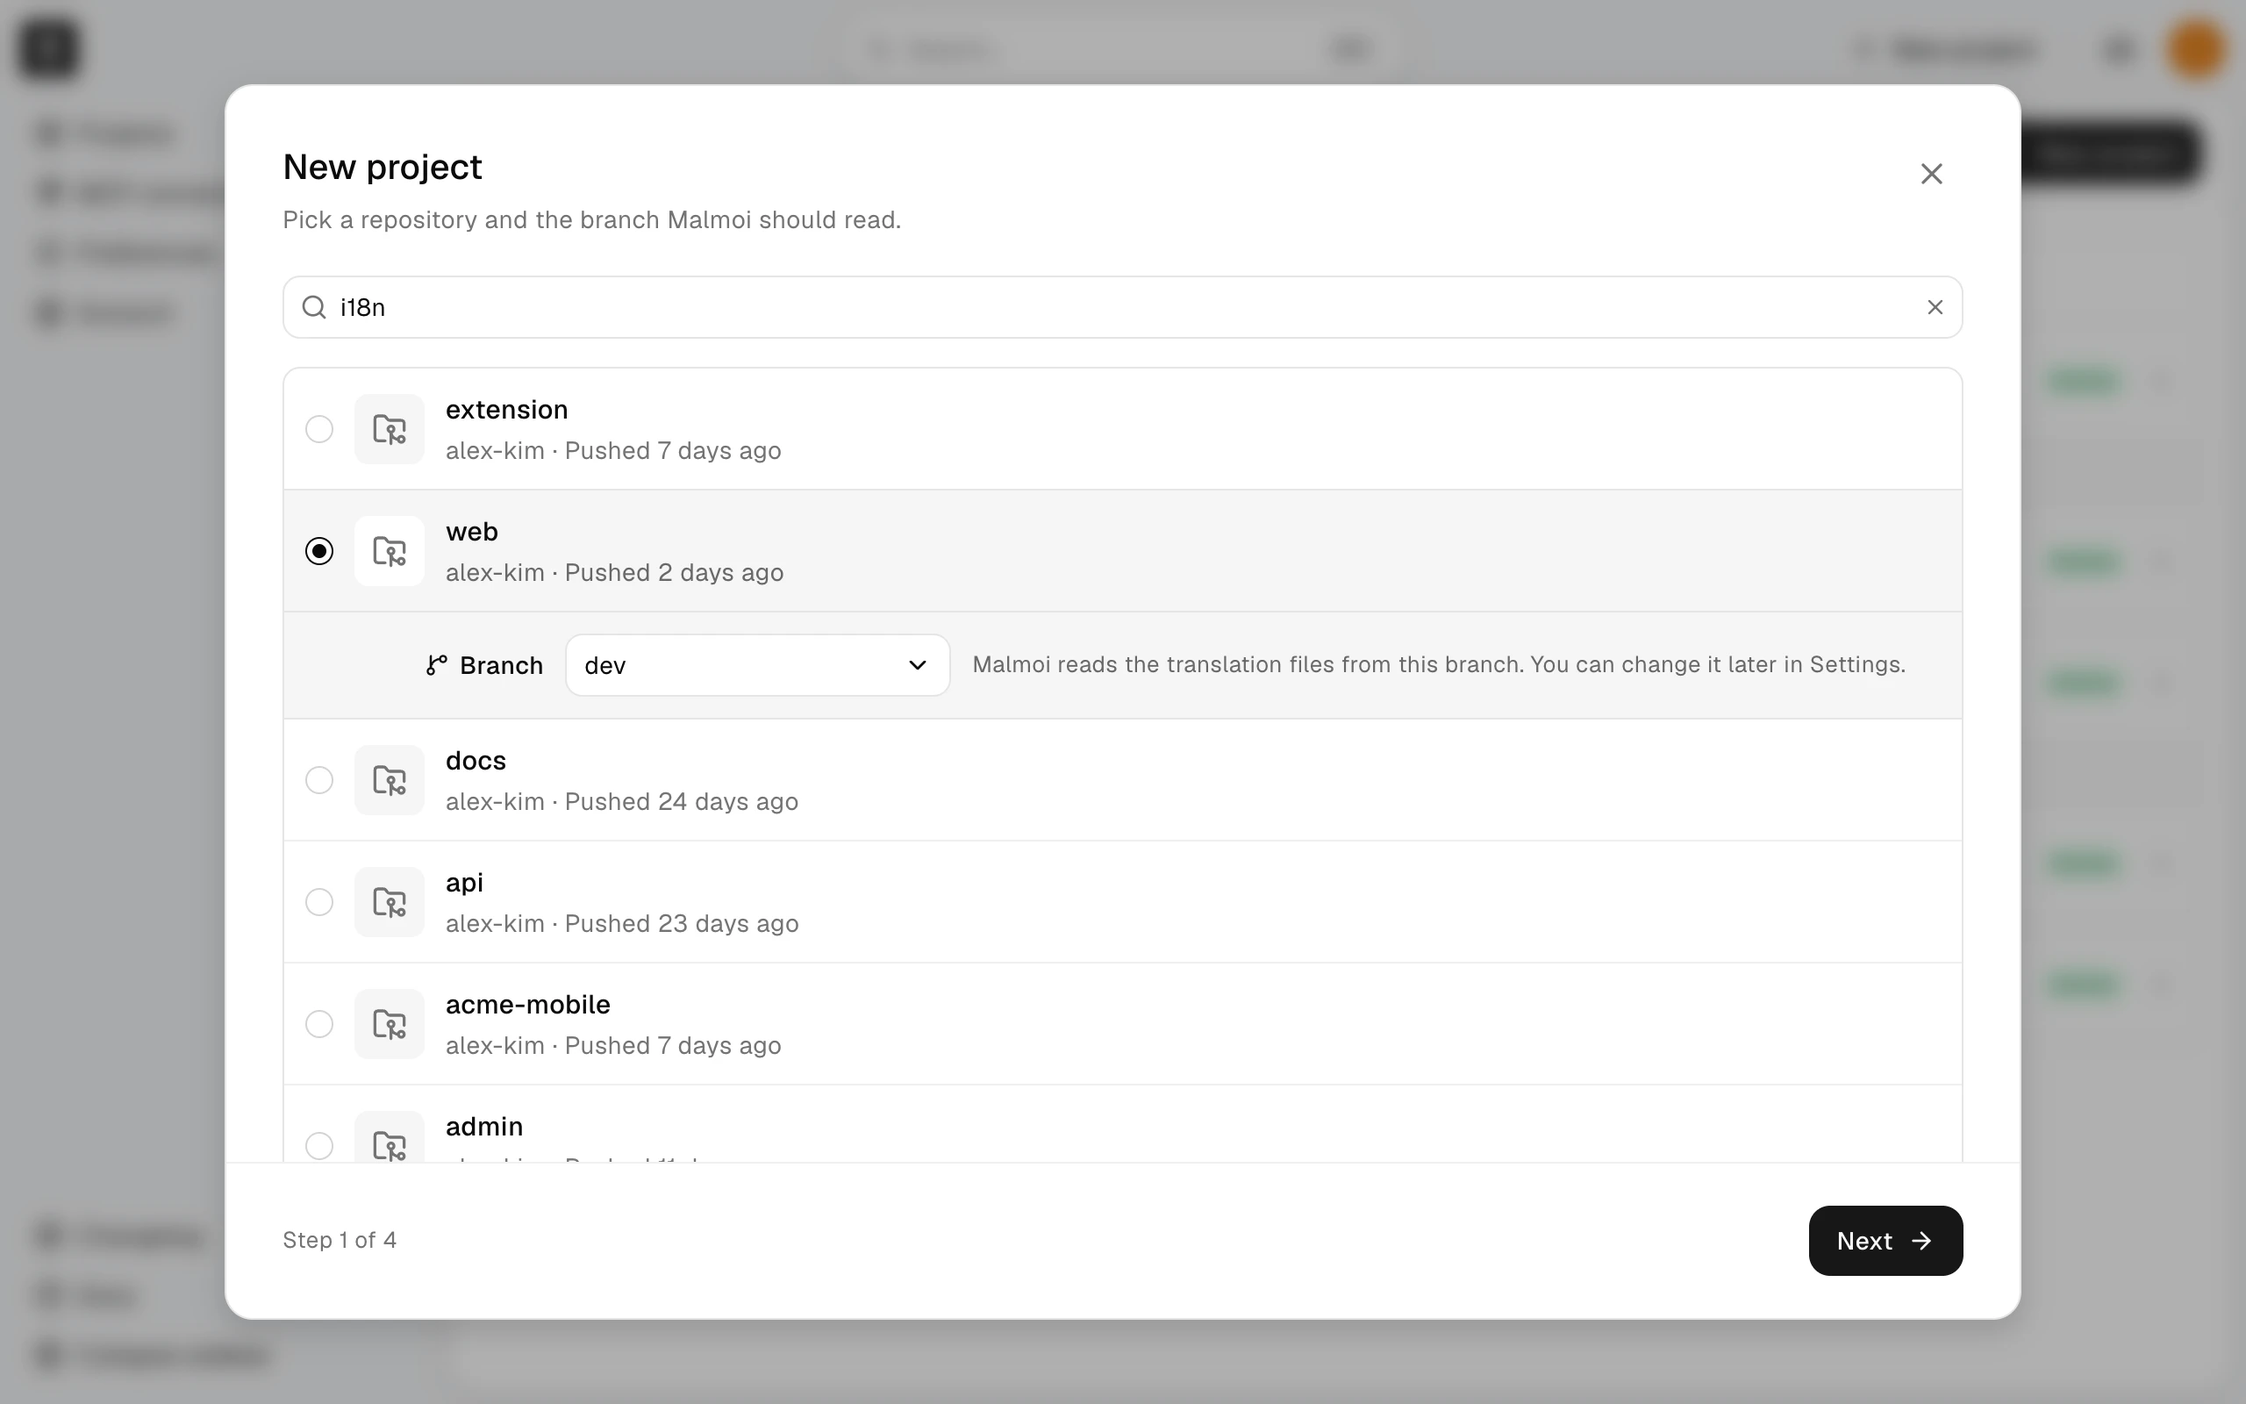
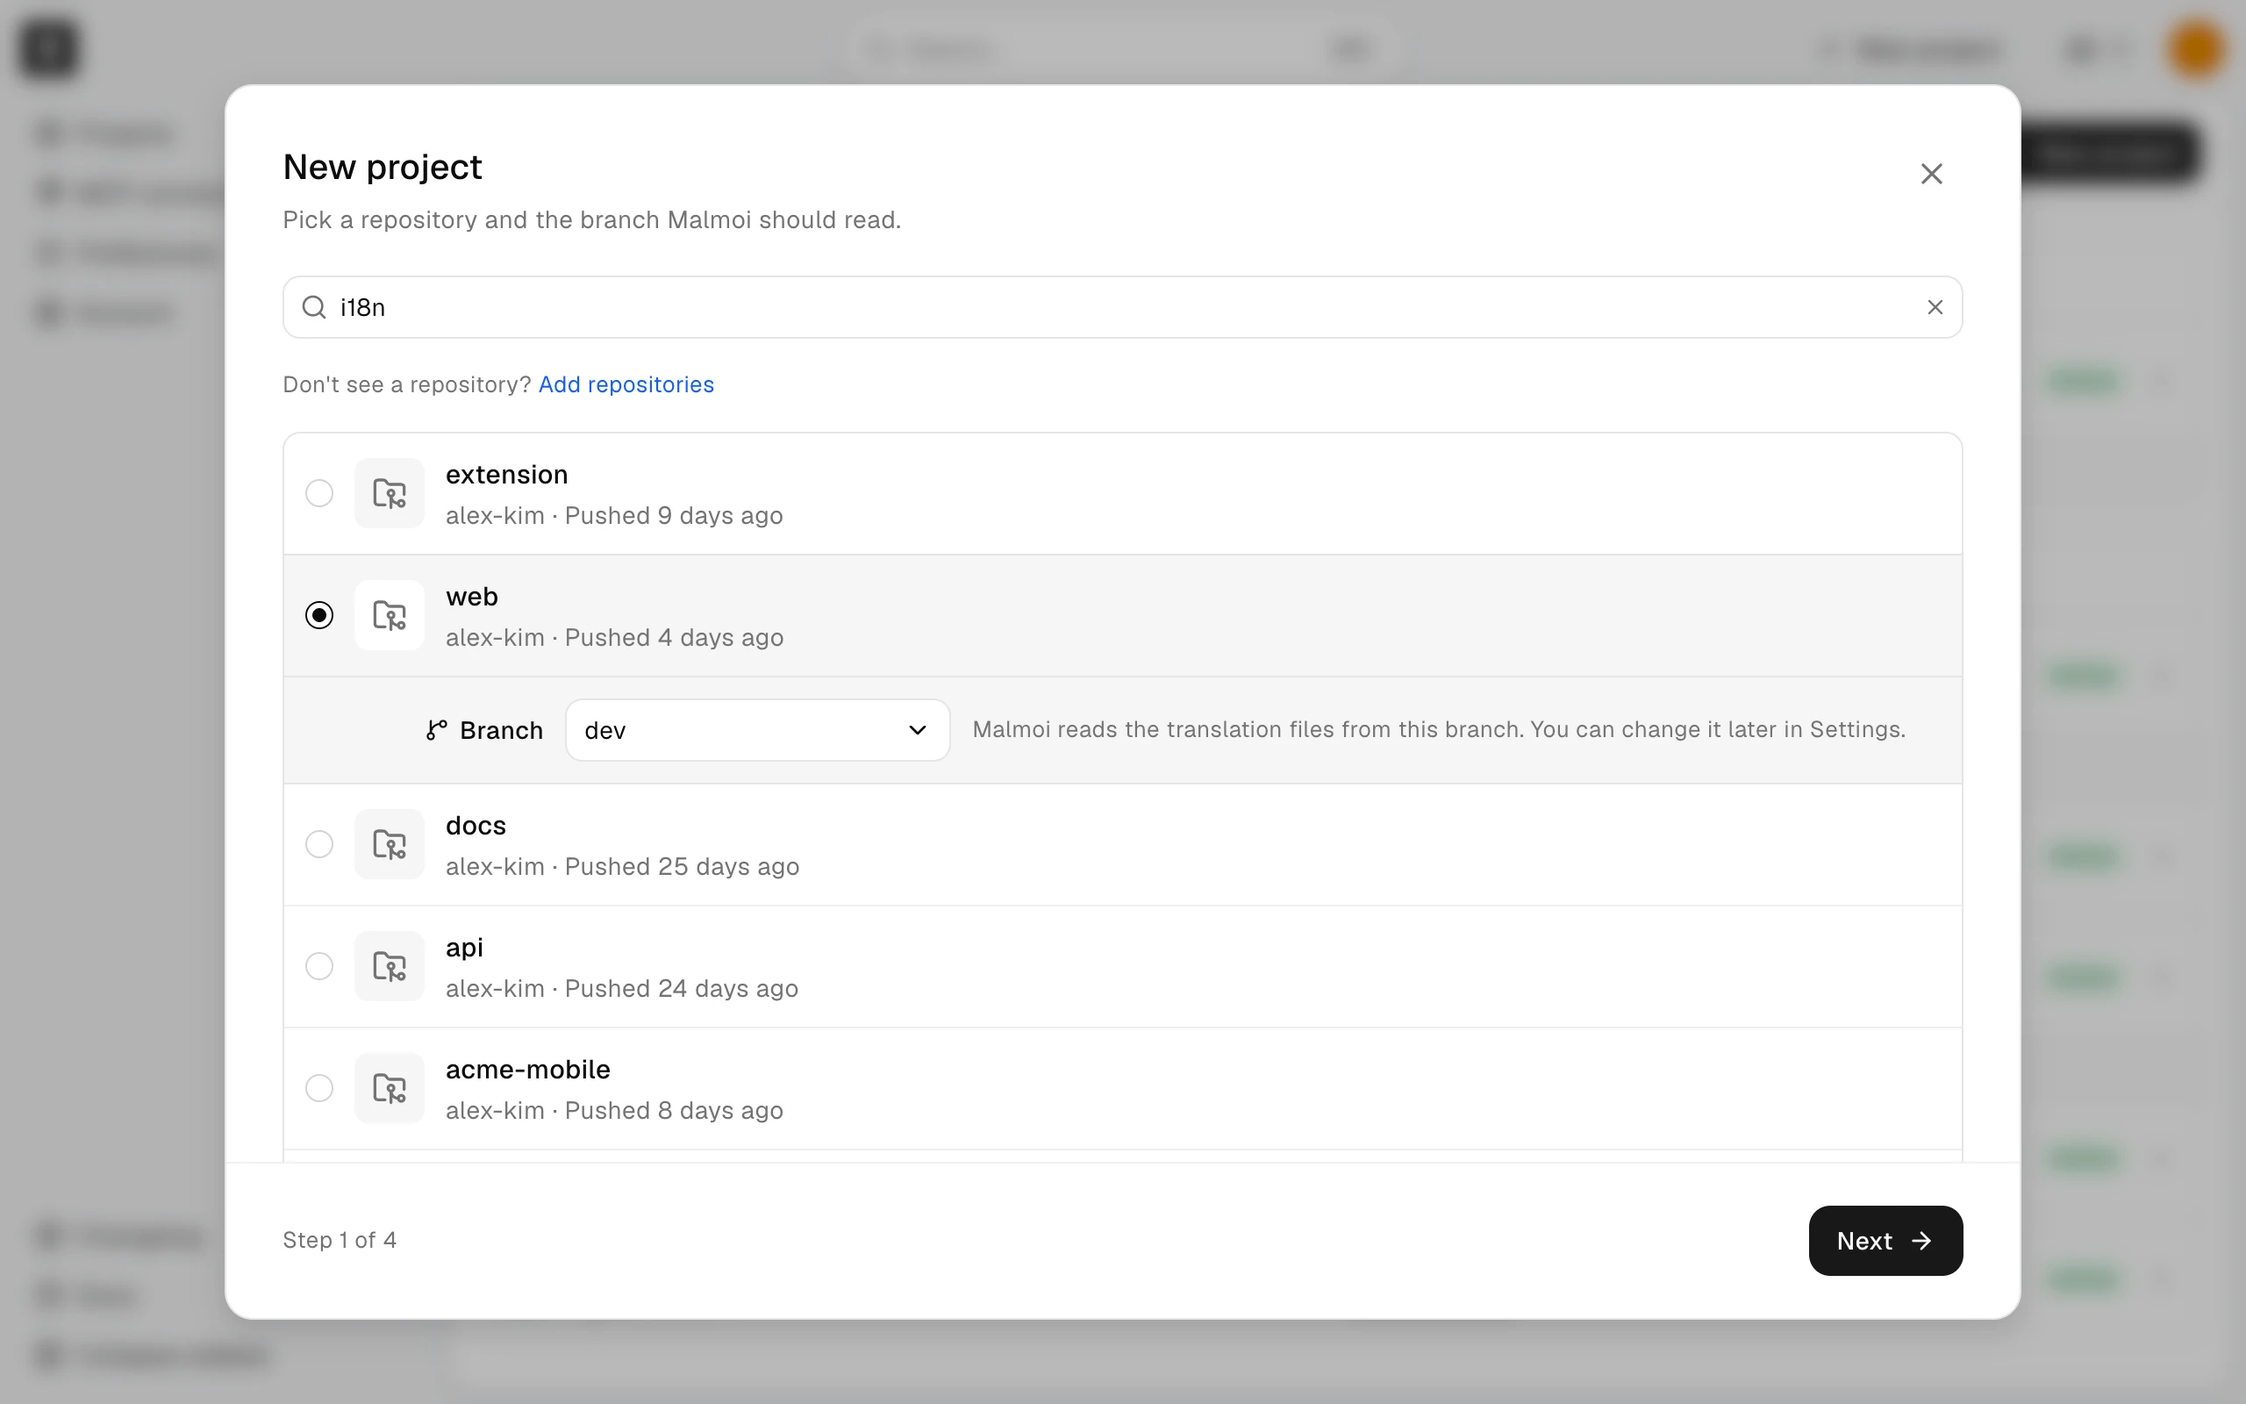
docs(guide): refresh stale screenshots and capture hashes

diff --git a/guide/SHOOTING.md b/guide/SHOOTING.md
@@ -121,18 +121,18 @@
 | /guide/workflow-file.webp | components/settings/ci-card.tsx, components/onboarding/workflow-block.tsx, lib/onboarding/workflow.ts | 4b0c6517ce3855adfe0d2efb25685ba401a487b9, 13a0bbaf8bae47bc0995b3ba5710b84ecdb4a3cf, 45d351ca4d9fc6cff70c84d0e784e6e992edba69 | 2560x1600 |
 | /guide/actions-policy.webp | lib/onboarding/workflow.ts, .github/actions/malmoi-i18n-push/action.yml | 45d351ca4d9fc6cff70c84d0e784e6e992edba69, 559ddc28bcd1c0fa8f4a1946dd15f7e8fcd0f03d | 2560x1600 |
 | /guide/translation-editor.webp | components/translations/workspace/key-list.tsx, components/translations/workspace/locale-panel.tsx, components/translations/workspace/workspace.tsx, components/translations/workspace/tree-panel.tsx | 9596e3f69feeec0778cb4c7124767a3a95862e06, d163e48e5a600188360758bc16e9f23892415645, 5e70704323a5b505bb84cbcb992c44e6baad1566, c3011321c302532e5d48ac53e1b026eff051782f | 2560x1600 |
-| /guide/publish-preview.webp | components/publish-button.tsx, lib/publish/preview.ts | f5ecfbf808e496d8814d4d754eed38b6697174fc, 257ebc5a440efdd31731c6426b9851f869a41561 | 2560x1600 |
+| /guide/publish-preview.webp | components/publish-button.tsx, lib/publish/preview.ts | 74c1ba70a0914474b825f4ad82529a81ee6648a9, e45bd3464c495b090f1be361cb9fe5eb49d4f527 | 2560x1600 |
 | /guide/project-home.webp | app/(edit)/projects/[slug]/(home)/page.tsx, components/home/count-cards.tsx, components/home/meta-column.tsx, components/home/meta-tabs.tsx | a3ca13f26f31e8a50d046d89963b03ab79574988, f79053a2ec12e6fd6a1611a948c5ce805970a74f, 5ae516e4db22a7ce9a1f86d301773969b3a2933a, 326a71e9fadefec3992bad2e9acf0192fa107a35 | 2560x1600 |
 | /guide/invite-members.webp | components/members/invite-modal.tsx | 2c7ee849a67b7c22829322d5e26dc29d89980cbe | 2560x1600 |
 | /guide/members.webp | components/members/member-list.tsx, components/members/member-row.tsx, components/members/pending-invitations.tsx | 5c9abf0476d864a60636140609f313bc49309f9a, 7aa6bc0fe597bbeadf217adf4c2524b459cb823f, 6a0f199028d043edee39b3bed347f51e8c95ef91 | 2560x1600 |
-| /guide/sources.webp | components/sources/sources-screen.tsx, components/sources/source-status.tsx | b0966ca7ad7e55d4687f8b660f7abbd4e7b6a9aa, 3df5a25bcf1d94eee8d15176730ab652a9c18a9c | 2560x1600 |
+| /guide/sources.webp | components/sources/sources-screen.tsx, components/sources/source-status.tsx | 9abbc42c4c961bb855c7aacbcac7229a52c6eb25, 3df5a25bcf1d94eee8d15176730ab652a9c18a9c | 2560x1600 |
 | /guide/add-sources.webp | components/sources/add-sources-modal.tsx | 3a68b93e1836d12f8bef9de4e7aad708b0aa3f7c | 2560x1600 |
 | /guide/archive-card.webp | components/settings/archive-card.tsx | fbf5ba1bd7b87ff3c8ea910d2876d810b3deb440 | 2560x1600 |
-| /guide/accept-invitation.webp | app/invite/[token]/page.tsx, components/invite/project-card.tsx, components/signin/auth-layout.tsx | 01d3b1bcd7b4c96ad05a866d147b1c7e3b6076bf, 127ce43ee81376d2129c819207560812ddf1f1e7, ed226dfe79cfe2d0ce4aea1f8672b353220adaf9 | 2560x1600 |
+| /guide/accept-invitation.webp | app/invite/[token]/page.tsx, components/invite/project-card.tsx, components/signin/auth-layout.tsx | 01d3b1bcd7b4c96ad05a866d147b1c7e3b6076bf, 127ce43ee81376d2129c819207560812ddf1f1e7, ddc84a27986efdde192d4c3c11710a50f5c7793f | 2560x1600 |
 | /guide/state-filter.webp | components/translations/workspace/filter-menu.tsx, components/translations/workspace/key-list.tsx, dict:translations.workspace.filters.state.any, dict:translations.workspace.filters.state.incomplete, dict:translations.workspace.filters.state.unsent, dict:translations.workspace.filters.state.review, dict:translations.workspace.filters.state.new | 0d6e722c777ce3d4d3cdba98015793f38c2cbb4a, 9596e3f69feeec0778cb4c7124767a3a95862e06, b823bb9b42b3672439670b5267fe5328d7524380, 387fd1bbc18419e26c612f4acad9213e5073ade4, 0d09fa0d8c890b48da20aefe409a39eb962b5114, 33a506cf6ec5a56c261838f0a5a3d29cd7f2dacc, 56539cd31aeb7453fb2900c2952b988146fd6127 | 2560x1600 |
 | /guide/inbox-open.webp | components/shell/attention-inbox.tsx, lib/home/attention-view.ts, lib/inbox/plan.ts | 8f9a482eb7f07e9e8af9f07e9596fa3d1ec4e371, edbbb141b2877391ee384376b69298ae30d301da, ed430f039547cb6818bd45084567394b0b82a513 | 2560x1600 |
-| /guide/home-publish.webp | app/(edit)/projects/[slug]/(home)/page.tsx, components/home/count-cards.tsx, components/publish-button.tsx | a3ca13f26f31e8a50d046d89963b03ab79574988, f79053a2ec12e6fd6a1611a948c5ce805970a74f, f5ecfbf808e496d8814d4d754eed38b6697174fc | 2560x1600 |
-| /guide/publish-result.webp | components/publish-button.tsx | f5ecfbf808e496d8814d4d754eed38b6697174fc | 2560x1600 |
+| /guide/home-publish.webp | app/(edit)/projects/[slug]/(home)/page.tsx, components/home/count-cards.tsx, components/publish-button.tsx | a3ca13f26f31e8a50d046d89963b03ab79574988, f79053a2ec12e6fd6a1611a948c5ce805970a74f, 74c1ba70a0914474b825f4ad82529a81ee6648a9 | 2560x1600 |
+| /guide/publish-result.webp | components/publish-button.tsx | 74c1ba70a0914474b825f4ad82529a81ee6648a9 | 2560x1600 |
 | /guide/home-paused.webp | app/(edit)/projects/[slug]/(home)/page.tsx, components/home/count-cards.tsx, components/home/meta-column.tsx, components/home/meta-tabs.tsx, dict:home.cards.held.pending-edits | a3ca13f26f31e8a50d046d89963b03ab79574988, f79053a2ec12e6fd6a1611a948c5ce805970a74f, 5ae516e4db22a7ce9a1f86d301773969b3a2933a, 326a71e9fadefec3992bad2e9acf0192fa107a35, e7daa697ea395700d6e0a57f5dc83a59b2b30aa7 | 2560x1600 |
 | /guide/revert-confirm.webp | components/translations/workspace/workspace.tsx, components/translations/edit-loss-banner.tsx, components/translations/workspace/key-list.tsx | 5e70704323a5b505bb84cbcb992c44e6baad1566, daf9dd43f41d9d6ddf74fa7ecea18542bc416df8, 9596e3f69feeec0778cb4c7124767a3a95862e06 | 2560x1600 |
 | /guide/sync-discard.webp | components/home/sync-button.tsx | 6e26d3c6e1c1a79e576b92c991dd513326141c5e | 2560x1600 |
@@ -143,7 +143,7 @@
 | /guide/mcp-create-token.webp | components/mcp/token-modal.tsx, components/mcp/token-grant-fields.tsx | c96820a9c8869d021052c5873b0404cfc8e3e7b4, ad7e6129db1f932a7d9ef42b0d18756abe81552f | 2560x1600 |
 | /guide/mcp-connector.webp | components/mcp/connected-apps-card.tsx, components/mcp/token-card.tsx | 369d43ab9dd9dc50045d250315813c6dba07c0ea, 0f417f11f0c5c8dc43c709919590561c6e74cf8d | 2560x1600 |
 | /guide/oauth-consent.webp | app/oauth/authorize/page.tsx, components/oauth/consent-panel.tsx, components/oauth/app-card.tsx, components/mcp/token-grant-fields.tsx | 264e22a4586c635a5f9ecf4b34649679baded157, 094cd617e29acf6e4428fa6caf567e2c6d826556, f84a8047e035ed76fe1411941a3c8086844c4455, ad7e6129db1f932a7d9ef42b0d18756abe81552f | 2560x1600 |
-| /guide/create-repository.webp | components/onboarding/new-project.tsx, components/onboarding/steps/repo.tsx | 818b43f99d4ed1ae62c077fc826357beab3eb453, b6c6f16b2e7251ad0471127c7cce38edda915ffe | 2560x1600 |
+| /guide/create-repository.webp | components/onboarding/new-project.tsx, components/onboarding/steps/repo.tsx | 818b43f99d4ed1ae62c077fc826357beab3eb453, 43919601691a4bebe755a3d855d65ab6ef213059 | 2560x1600 |
 | /guide/create-files.webp | components/onboarding/new-project.tsx, components/onboarding/steps/files.tsx | 818b43f99d4ed1ae62c077fc826357beab3eb453, ff459d94bea6ac9e53516e39b98c4235cbc8a6d4 | 2560x1600 |
 | /guide/create-name.webp | components/onboarding/new-project.tsx, components/onboarding/steps/naming.tsx | 818b43f99d4ed1ae62c077fc826357beab3eb453, f6f81681dddbc2e660011c6f91fe10711766473b | 2560x1600 |
 | /guide/create-ready.webp | components/onboarding/new-project.tsx, components/onboarding/steps/result.tsx, components/onboarding/workflow-block.tsx | 818b43f99d4ed1ae62c077fc826357beab3eb453, 1d97cf223710bc767caf08f18257afe6f43265b3, 13a0bbaf8bae47bc0995b3ba5710b84ecdb4a3cf | 2560x1600 |
@@ -196,3 +196,5 @@
 - 2026-10-05 attention-inbox Q3(셸 헤더에 Inbox 트리거 — 편집 셸과 로그인한 공개 셸 헤더) — **셸·헤더가 든 컷 전부 + `guide:check` stale 재촬영(사용자 결정)**: `public/guide/` 27장(셸 컷 24 + `oauth-consent` · `accept-invitation` · `footer-language-menu` — 셸은 없지만 stale) + README 두 장(`hero` · `logs`). **추가 1**: `inbox-open`(`translate/edit.md#inbox`, EDITOR) — 세 언어 원고에 같은 경로로 참조를 넣었다. **안 찍은 것**: `create-ready`(④ — 일회용 프로젝트를 만들어야만 닿는데 이번 브리프가 프로젝트 생성·삭제를 금했다. 매핑 SHA를 그대로 둬 `guide:check`에 계속 뜬다) · `push-token-secret` · `actions-policy`(GitHub 화면, stale 아님). 매핑 소스 추가: `preferences-language`에 `theme-card.tsx`(Theme 카드가 컷에 섰는데 `guide:check`가 못 잡았다). 셋업: OWNER `checkout.submit` de `Jetzt bestellen` 저장 → `home-paused`(Sync 탭)·`sync-discard`(Cancel)·`revert-confirm` → 실제 Revert(켜져 있었다) · EDITOR `checkout.submit` fr `Passer la commande` → `home-publish`·`publish-preview`(PR 안 엶) → `inbox-open` → 빈 값 재저장 → Publish(`Nothing differs`) → `publish-result` · MCP 연결 둘은 가짜 `OAuthConnection` 행(id `q3-gs-*`) → 촬영 뒤 삭제(0→0) · `oauth-consent`는 claude.ai CIMD authorize 요청(Authorize 안 누름) · ①–③은 운영자 면제로 `/projects/new`에 바로 들어갔고 Create project는 누르지 않았다 · 초대 1건을 `i18n-order-check`(EDITOR 비멤버 — `acme-web`은 이미 멤버라 `already-member` 화면이 된다)에 심어 `accept-invitation`을 찍고 수락 없이 id로 지웠다(카드가 `acme-mobile`) · `inbox-open`은 `bugshot-i18n-test-qa`의 `_locales`에 `import-failed`(now) · `namespaces`에 `partial-import`(2h 전)를 심어 찍고 NULL로 되돌렸다. 촬영 계정 화면 언어: OWNER 계정 `uiLocale`이 `ko`였다 → 촬영 동안 `en` → `ko`로 복원(EDITOR는 null = en). 전후 대조: 미전달 0→0(다섯 프로젝트), 초대·OAuth 연결·API 토큰 수 그대로, `TranslationSurface` 실패 표시 전부 NULL, `User.attentionSeenAt` 둘 다 NULL, `acme-web` 사건 45→50(편집·Revert · 편집·재저장·Publish), 나머지 프로젝트 사건 그대로, GitHub 쓰기 없음. ⚠ **새로 밟은 것**: ① OWNER·EDITOR의 가려진 주소 앞부분이 같다 — 일반 치환이 둘 다 같은 값으로 바꾸므로 Members 행 이름으로 갈라 `alex.k***@` · `jordan***@`를 넣는다. 계정 화면의 이메일 칸은 `<input>` value라 정규식 치환을 input에도 건다. ② `inbox-open`의 그룹 이름은 마스킹 표대로면 `acme-web`이 되어 `Acme web` 그룹과 겹친다 — ①의 선례처럼 이 컷에서만 `bugshot-i18n-test-qa`를 `extension`으로 바꾼다. 그룹은 최신 항목 순이라 실패 시각을 미전송 편집보다 늦게 둬야 두 그룹이 한 화면에 든다. 목록을 열면 `attentionSeenAt`이 기록돼 다시 열 때 안 읽은 점이 사라진다 — 재촬영 전 NULL로 되돌린다. ③ 다음 단계 버튼이 직전 클릭 자리에 서면 hover가 남는다(①→② Next, ②→③ Create project) — 마우스를 다른 곳에 한 번 옮긴 뒤 구석으로 보낸다. ④ URL로 연 Logs 사건 Dialog는 첫 버튼(`Copy reference`)에 focus-visible 링이 선다 — `activeElement.blur()` 뒤 찍는다. ⑤ `ego-browser nodejs -e '…'` 한 번이 끝나지 않았다 — 스크립트는 파일을 stdin으로 넘긴다. ⑥ Logs 시각에 `UTC` 라벨이 붙었다(user-timezone) — README `logs` alt의 "grouped by UTC date"는 날짜 머리가 컷 밖이라 보이지 않는다(README 문구는 고치지 않았다).
 - 2026-10-05 attention-inbox Q4 — `create-ready` **재촬영**(④ `Malmoi is ready`, 2560×1600 · 93,352바이트 — 매핑 치수 그대로). 일회용 프로젝트를 UI로 만들었다(`SinhyeokKang/i18n-format-check` · dev · `locales/{locale}.yml` 한 세트 — 후보 목록에서 `i18n/emails`가 기본 체크돼 있어 해제했다 · Name `Acme web` · Address `q4-shot-tmp` · base English). 토큰 input은 43자 가짜 값으로 바꾸고 `value` 속성도 같이 바꿨다(속성이 실제 값을 들고 있어 `outerHTML`에 남는다) · `api-url:` 줄은 이제 하나다(1줄 제거). 워크플로 `group:`에 일회용 주소가 실려 `acme-web`으로 치환했다. 셸은 Dim 뒤라 흐려 읽히지 않지만 마스킹 표 + 소유자 `acme/` · 아바타 `AK`를 걸었다. 촬영 계정 화면 언어가 `ko`여서 `/preferences`에서 `en`으로 바꿔 찍고 `ko`로 복원했다. 캡처 뒤 id(`c4cb4055-…`)로 지웠다: `ProjectEvent` 3 · `Translation` 28 · `StringKey` 10 · `Locale` 3 · `ProjectMember` 1 · `TranslationSurface` 1 · `Project` 1(나머지 0). 전후 대조: 상주 다섯 프로젝트의 사건·키·번역 수가 그대로다. 매핑 SHA 갱신. 브랜치 정리는 없다(보관·복원 없음 — 운영자 면제).
 - 2026-10-06 sources-add-remove Q2 — `guide:check` stale 4컷 **재촬영**: `sources`(Acme web 소스 둘 — Remove source는 상세 모달 안이라 컷 밖) · `add-sources`(**② `Choose base languages`로 옮겼다** — 지휘자 결정 D10. Add sources가 2단계가 됐고 기준 언어는 ②에만 있다. ⚠ 원고 alt는 아직 ①(감지 파일 + 미리보기 + 메뉴)을 말한다 — `/guide` 몫) · `preferences-language`(Theme 카드 `System` — 기본값이 light에서 system으로 바뀌었다) · `create-name`(①은 `i18n-format`으로 거른 목록, ② `web`·`emails`, ③ `Acme web`/`acme-web` · emails English, Create project 안 누름). ⚠ **새로 밟은 것**: ① 촬영 계정 테마가 `dark`였다 — 컷은 라이트 한 벌이므로 `/preferences`에서 **System**으로 두고 `Emulation.setEmulatedMedia`(`prefers-color-scheme: light`)를 스크립트마다 건 뒤 찍었고, 끝나고 `dark`로 되돌렸다. ② 다른 일회용 프로젝트의 미전달 1건이 셸 Inbox에 안 읽은 배지 `1`을 세웠다 — `User.attentionSeenAt`을 촬영 동안 지금으로 두고 원래 값으로 되돌렸다. ③ 스크립트 머리의 `page.cdp`(에뮬레이션) 호출이 스냅샷 ref를 무효로 한다 — ref 대신 CSS 셀렉터를 쓴다. 프로젝트·번역 쓰기 없음.
+
+- 2026-10-07 audit 후 stale 6컷(7건) 정리 — `sources`·`create-repository` **재촬영**(2560×1600, WebP quality 90). Sources 상태 배지의 오른쪽 배치와 저장소 목록 위 설치 안내를 반영했다. `publish-preview`·`home-publish`·`publish-result`는 새 차단 응답 분기만 바뀌어 기존 정상 미리보기·Home·변경 없음 화면이 그대로이고, `accept-invitation`은 바뀐 장식 영역을 렌더하지 않으므로 **SHA만 갱신**했다. OWNER의 계정·쿠키 언어 en, 촬영 동안 테마 System + 라이트 에뮬레이션(원래 Dark로 복원). 프로젝트·번역·초대·GitHub 쓰기 없음, 기존 Inbox 안 읽은 1건 그대로. 마스킹 표 추가 없음. 저장소 선택 컷의 `bugshot-i18n-test`는 기존 선례대로 `extension`으로 치환했다.
